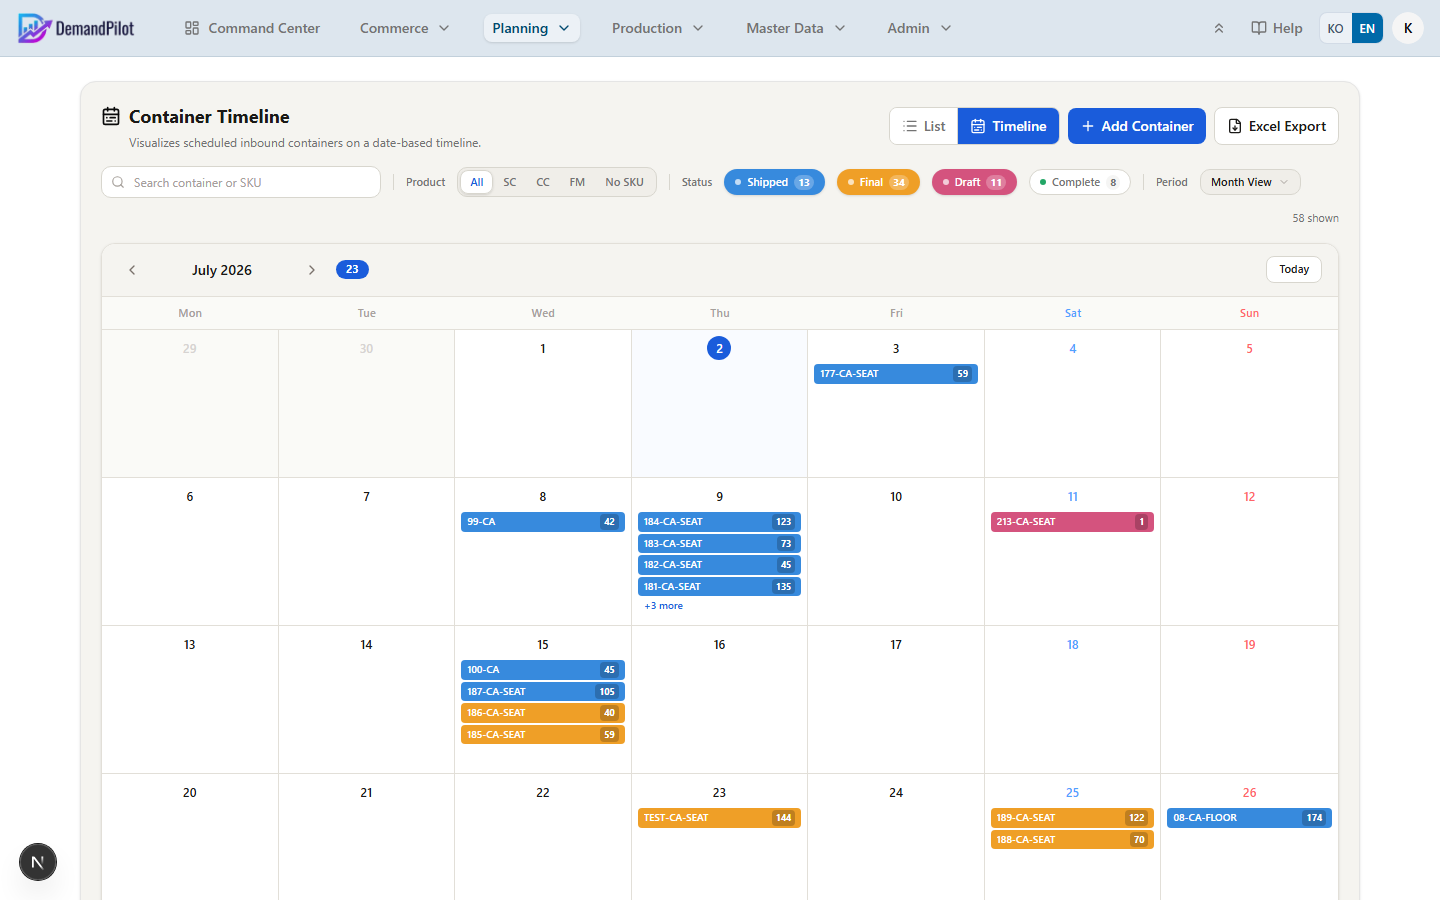
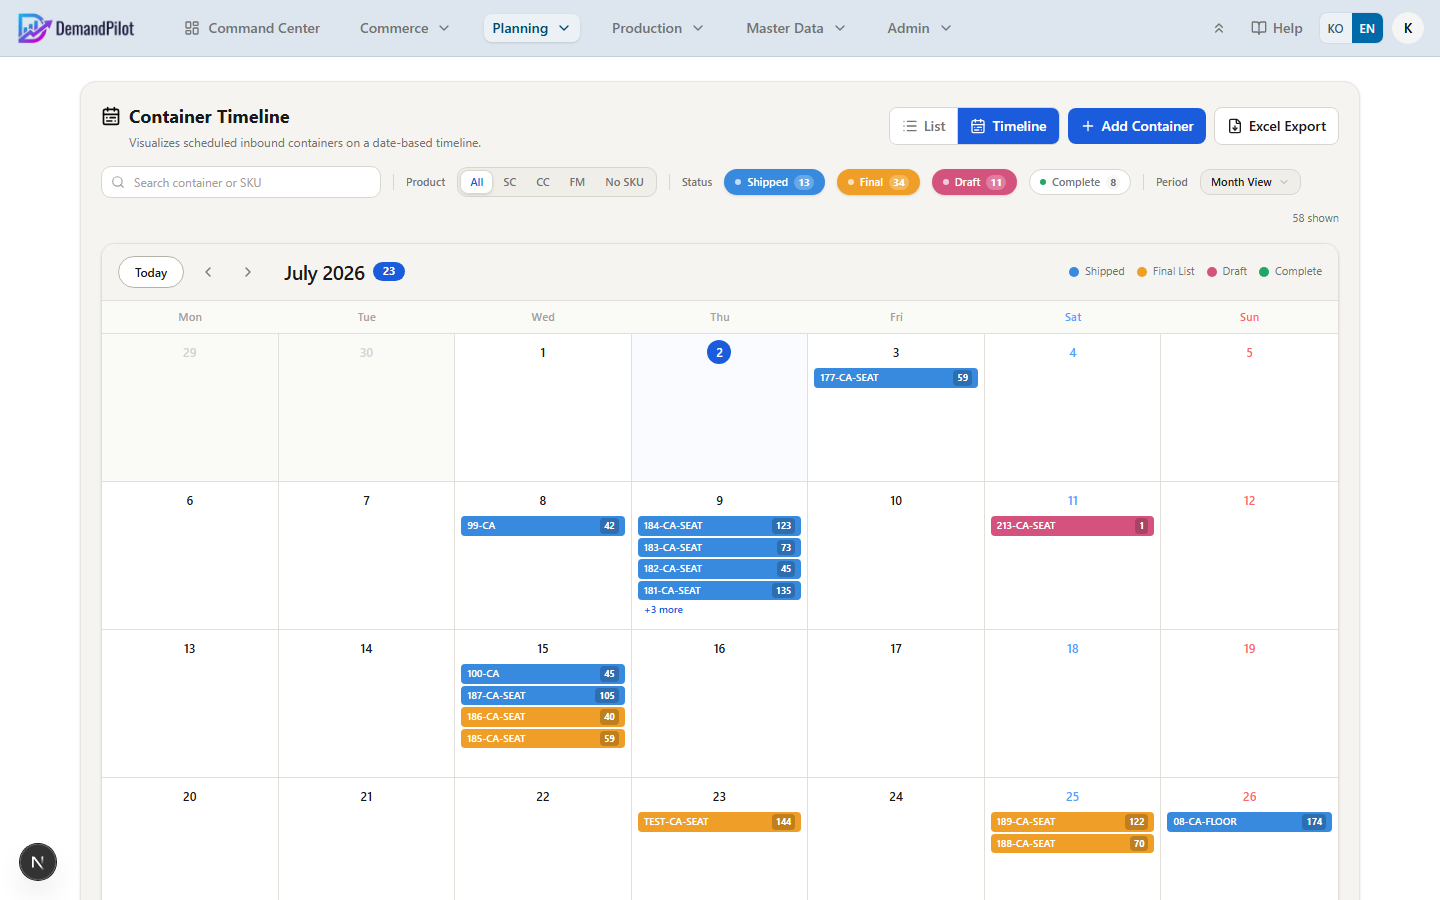
fix: align monthly timeline header with schedule view

diff --git a/src/components/planning/container-timeline/container-timeline-page.tsx b/src/components/planning/container-timeline/container-timeline-page.tsx
@@ -1560,37 +1560,45 @@ function CalendarMonthView({
     <div className="rounded-xl border border-[#e2dfd8] bg-white shadow-sm overflow-hidden">
       {/* Calendar header */}
       <div className="flex items-center justify-between px-4 py-3 border-b border-[#e2dfd8] bg-[#f5f4f0]">
-        <div className="flex items-center gap-1.5">
+        <div className="flex items-center gap-2">
+          <button
+            type="button"
+            onClick={goToday}
+            className="rounded-full border border-[#b8b3aa] bg-white px-4 py-1.5 text-[12px] font-semibold text-[#1a1917] hover:bg-[#f0eee9] transition-colors"
+          >
+            {pick("오늘", "Today")}
+          </button>
           <button
             type="button"
             onClick={prevMonth}
-            className="flex h-7 w-7 items-center justify-center rounded-full text-stone-500 hover:bg-[#e8e6e0] transition-colors"
+            className="flex h-8 w-8 items-center justify-center rounded-full text-stone-500 hover:bg-[#e8e6e0] transition-colors"
           >
             <ChevronLeft className="h-4 w-4" />
           </button>
-          <span className="min-w-[140px] text-center text-[14px] font-semibold text-[#1a1917]">
-            {pick(monthLabel, monthLabelEn)}
-          </span>
           <button
             type="button"
             onClick={nextMonth}
-            className="flex h-7 w-7 items-center justify-center rounded-full text-stone-500 hover:bg-[#e8e6e0] transition-colors"
+            className="flex h-8 w-8 items-center justify-center rounded-full text-stone-500 hover:bg-[#e8e6e0] transition-colors"
           >
             <ChevronRight className="h-4 w-4" />
           </button>
+          <span className="ml-3 text-[20px] font-semibold tracking-tight text-[#1a1917]">
+            {pick(monthLabel, monthLabelEn)}
+          </span>
           {monthTotal > 0 && (
-            <span className="ml-1 rounded-full bg-[#1a5cdb] px-2.5 py-px text-[11px] font-bold text-white">
+            <span className="rounded-full bg-[#1a5cdb] px-2.5 py-px text-[11px] font-bold text-white">
               {monthTotal}
             </span>
           )}
         </div>
-        <button
-          type="button"
-          onClick={goToday}
-          className="rounded-md border border-[#d8d6ce] bg-white px-3 py-1 text-[11px] font-semibold text-[#1a1917] hover:bg-[#f0eee9] transition-colors"
-        >
-          {pick("오늘", "Today")}
-        </button>
+        <div className="hidden items-center gap-3 text-[11px] text-muted-foreground md:flex">
+          {STATUS_ORDER.map((status) => (
+            <span key={status} className="flex items-center gap-1.5">
+              <span className="h-2.5 w-2.5 rounded-full" style={{ background: STATUS_COLOR[status] }} />
+              {STATUS_LABEL_FULL[status]}
+            </span>
+          ))}
+        </div>
       </div>
 
       {/* Day-of-week header */}
@@ -1636,19 +1644,6 @@ function CalendarMonthView({
         </div>
       ))}
 
-      {/* Legend */}
-      <div className="flex items-center gap-4 border-t border-[#e2dfd8] bg-[#fafaf7] px-4 py-2 flex-wrap">
-        {STATUS_ORDER.map((s) => (
-          <div key={s} className="flex items-center gap-1.5 text-[11px] text-muted-foreground">
-            <div className="h-2.5 w-2.5 rounded-sm" style={{ background: STATUS_COLOR[s] }} />
-            {STATUS_LABEL_FULL[s]}
-          </div>
-        ))}
-        <div className="flex items-center gap-1.5 text-[11px] text-muted-foreground ml-auto">
-          <div className="flex h-5 w-5 items-center justify-center rounded-full bg-[#1a5cdb] text-[9px] font-bold text-white">1</div>
-          {pick("오늘", "Today")}
-        </div>
-      </div>
     </div>
   );
 }